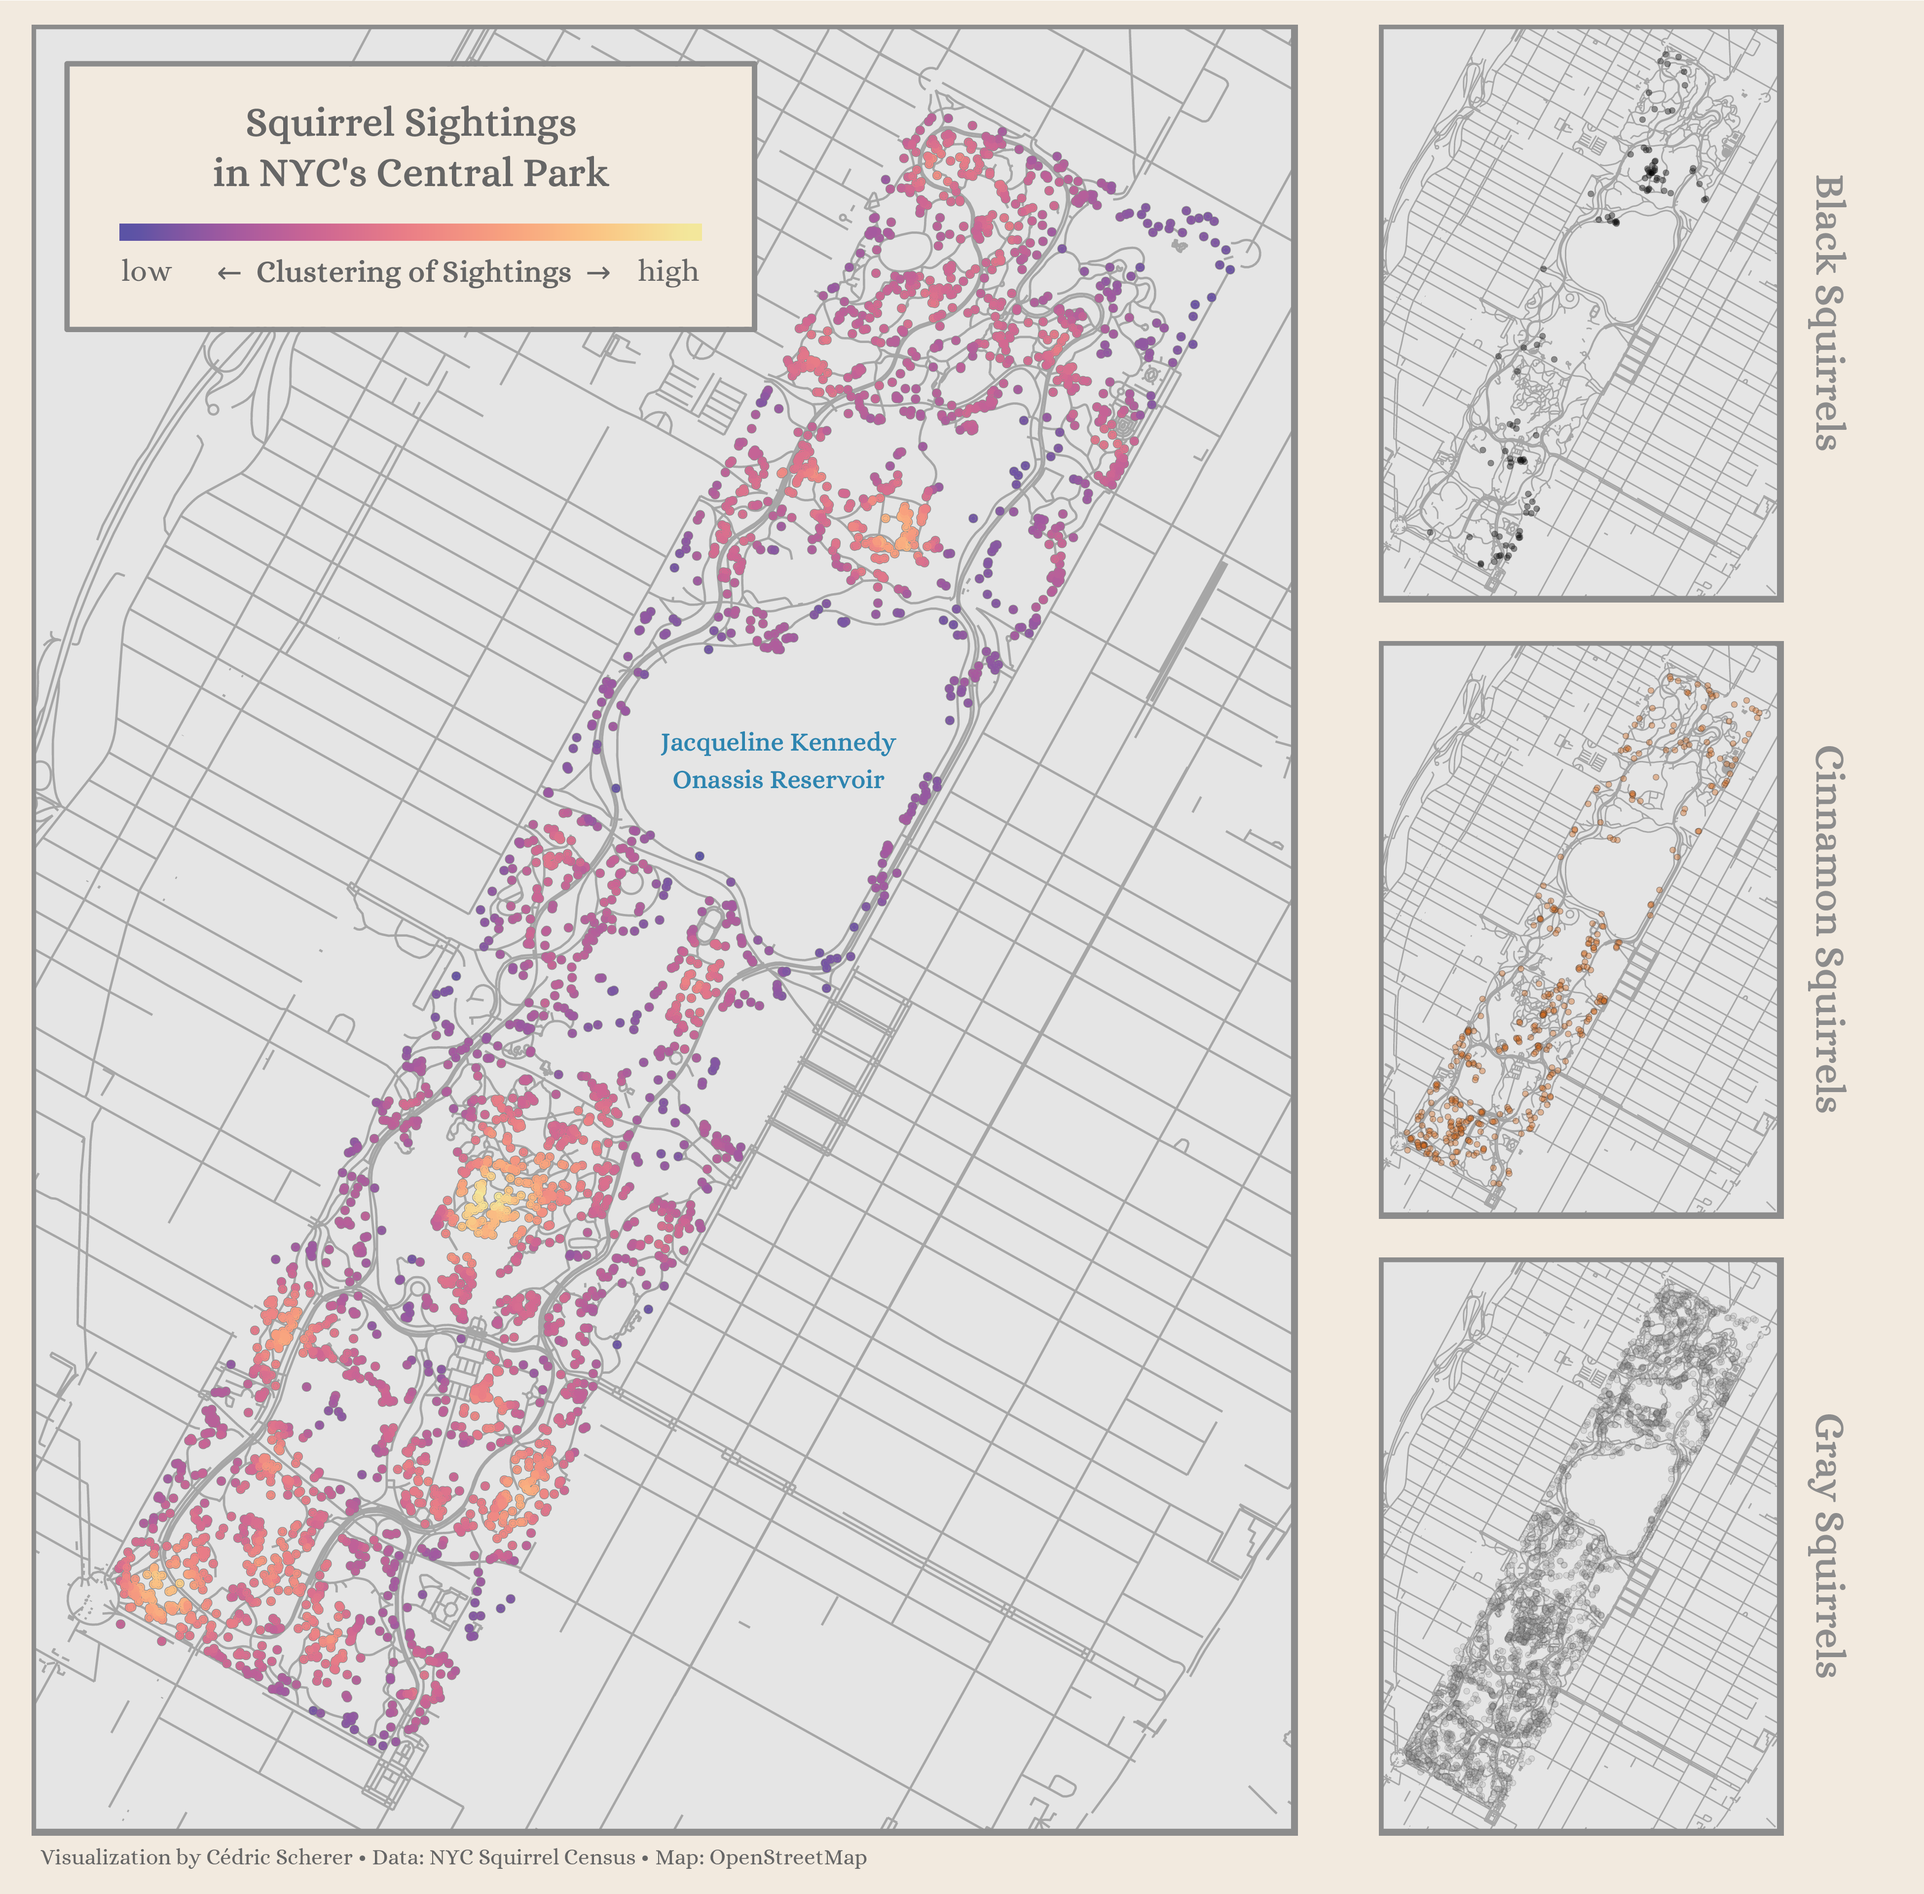
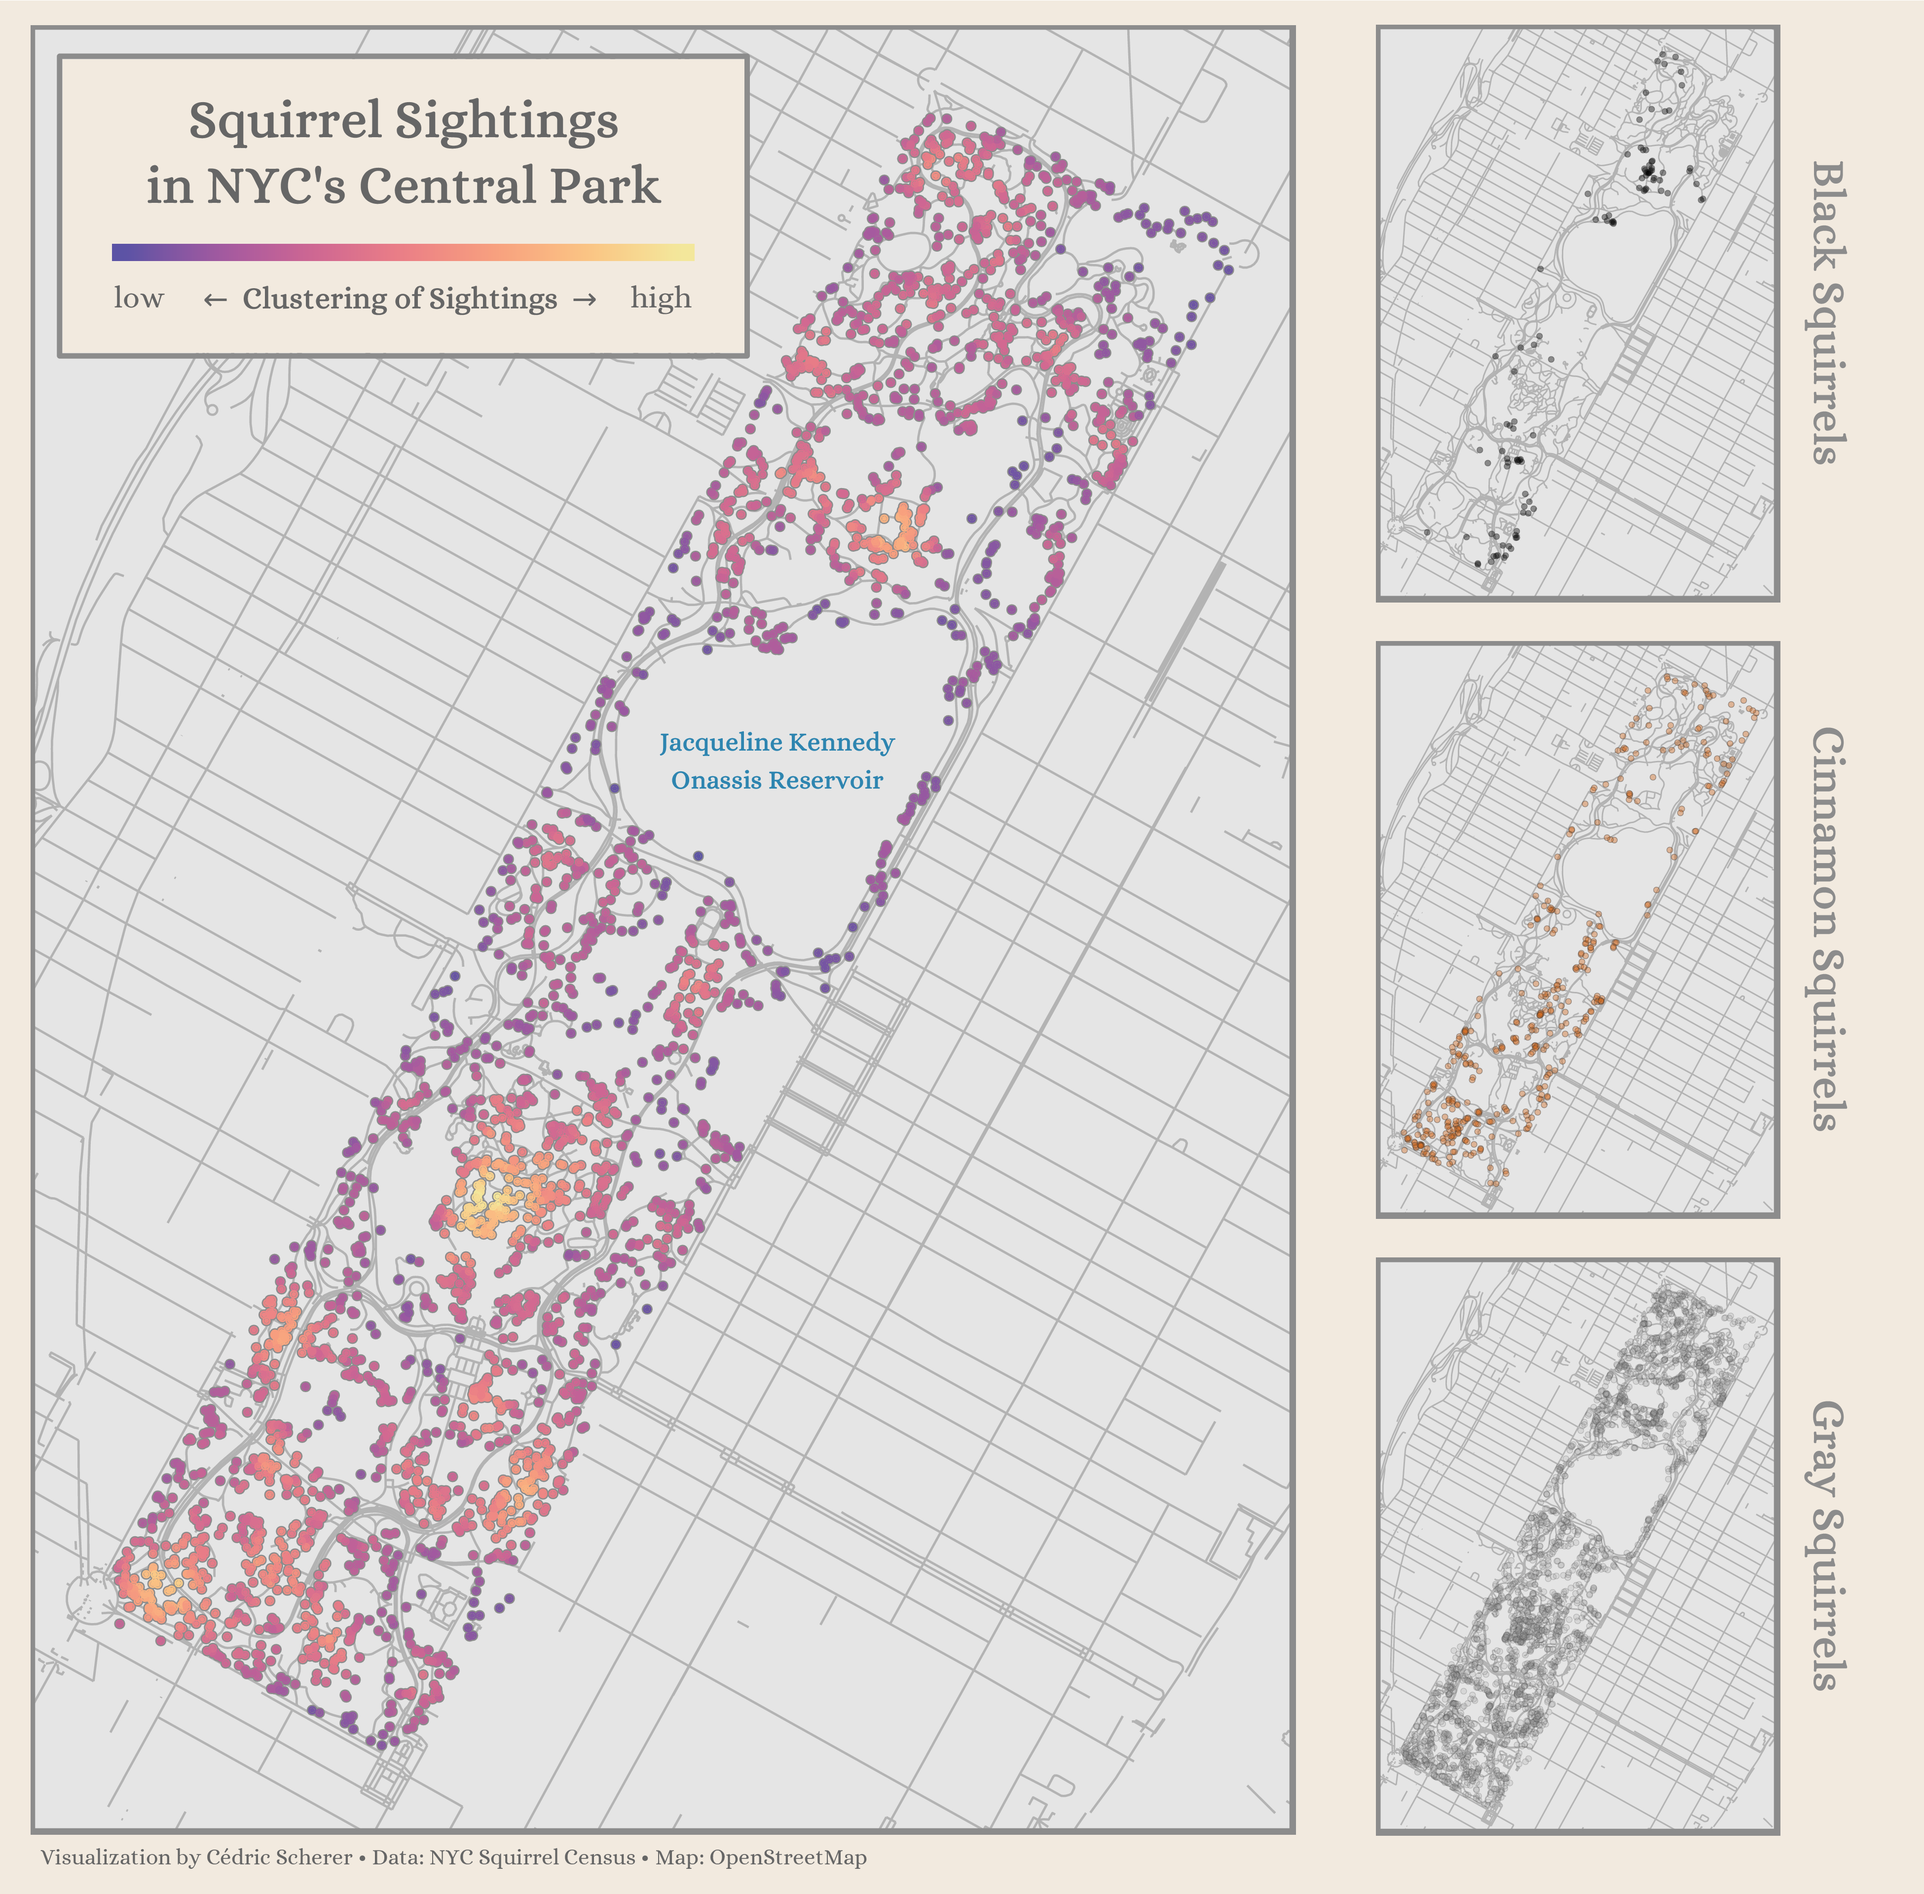
:lipstick: Week 2019/44 small changes colors and font sizes

diff --git a/README.md b/README.md
@@ -7,7 +7,7 @@ All contributions and full versions can be found [here](https://github.com/Z3tt/
 ***
 
 ### [Week 2019/44](https://github.com/Z3tt/TidyTuesday/tree/master/plots/2019_44) 🐿 NYC Squirrels by [Squirrel Census](https://data.cityofnewyork.us/Environment/2018-Central-Park-Squirrel-Census-Squirrel-Data/vfnx-vebw)
-![./plots/2019_44/2019_44_squirrels.png](https://github.com/Z3tt/TidyTuesday/blob/master/plots/2019_44/2019_44_squirrels.png)
+![./plots/2019_44/2019_44_squirrels_rev.png](https://github.com/Z3tt/TidyTuesday/blob/master/plots/2019_44/2019_44_squirrels_rev.png)
 
 ***
 

diff --git a/plots/README.md b/plots/README.md
@@ -7,7 +7,7 @@ All contributions and full versions can be found [here](https://github.com/Z3tt/
 ***
 
 ### [Week 2019/44](https://github.com/Z3tt/TidyTuesday/tree/master/plots/2019_44) 🐿 NYC Squirrels by [Squirrel Census](https://data.cityofnewyork.us/Environment/2018-Central-Park-Squirrel-Census-Squirrel-Data/vfnx-vebw)
-![./plots/2019_44/2019_44_squirrels.png](https://github.com/Z3tt/TidyTuesday/blob/master/plots/2019_44/2019_44_squirrels.png)
+![./plots/2019_44/2019_44_squirrels_rev.png](https://github.com/Z3tt/TidyTuesday/blob/master/plots/2019_44/2019_44_squirrels_rev.png)
 
 ***
 

diff --git a/plots/2019_44/README.md b/plots/2019_44/README.md
@@ -1,4 +1,5 @@
 ### Week 2019/44 🐿 NYC Squirrels by [Squirrel Census](https://data.cityofnewyork.us/Environment/2018-Central-Park-Squirrel-Census-Squirrel-Data/vfnx-vebw)
+**Original color palette I've used:**
 ![./plots/2019_44/2019_44_squirrels.png](https://github.com/Z3tt/TidyTuesday/blob/master/plots/2019_44/2019_44_squirrels.png)
 
 **Reversed color palette for the 50% who find it more intuitive this way:**
